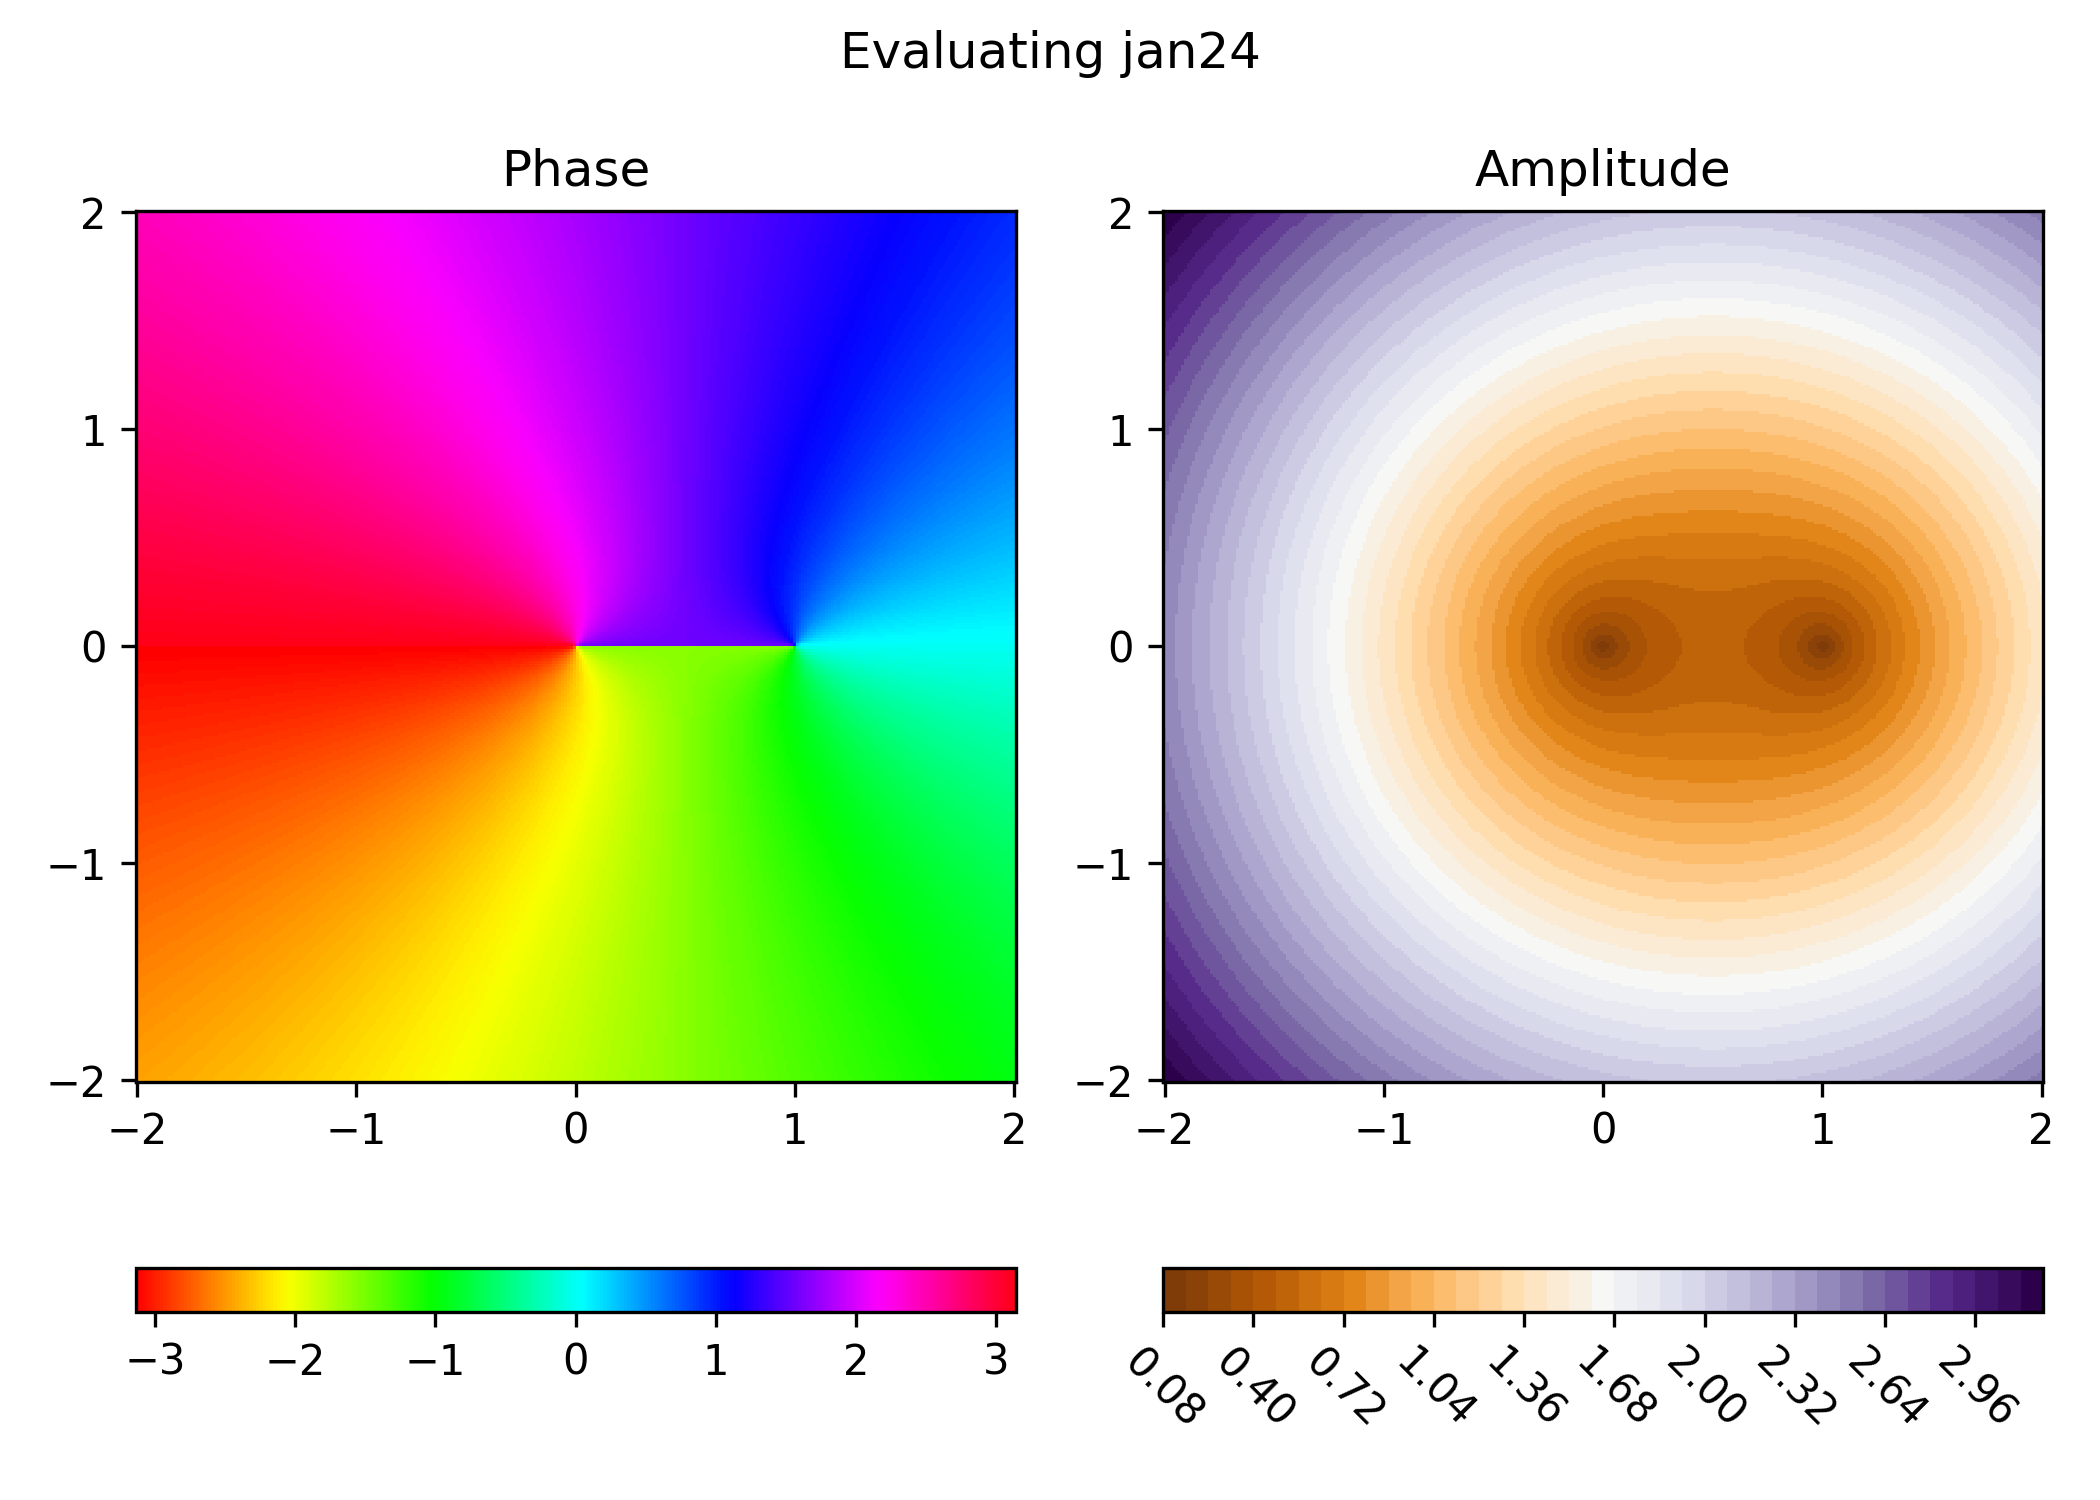
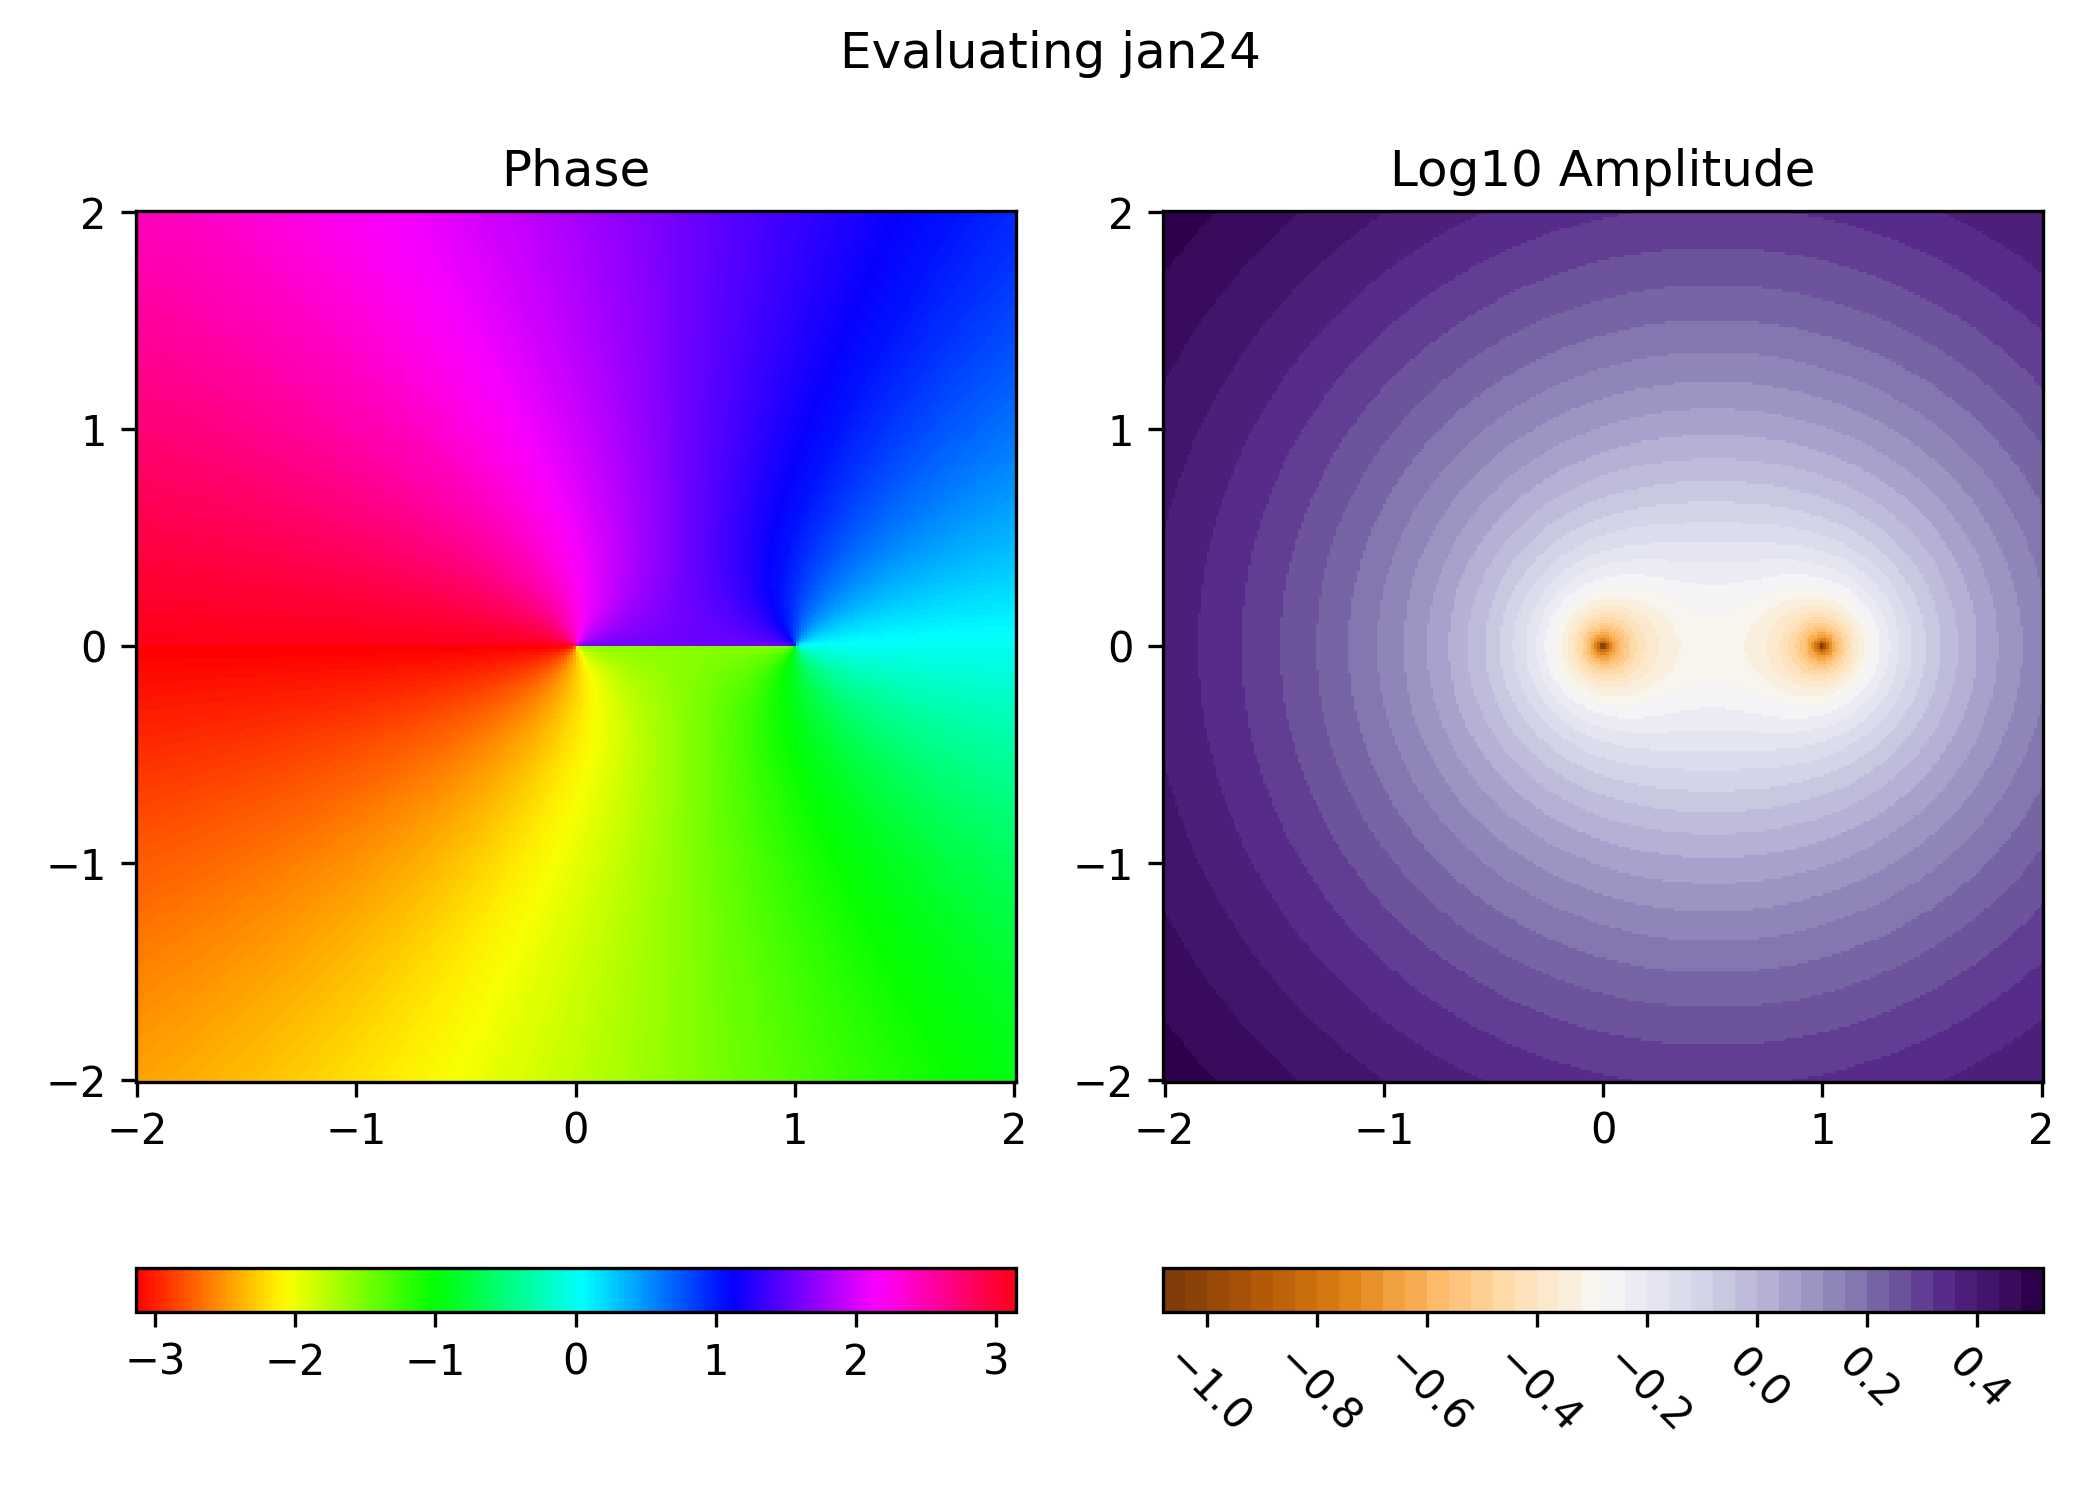
logarithm amplitude colorscale

Changed region(s): [[0.5571, 0.092, 0.9905, 0.736], [0.5262, 0.8893, 0.9595, 0.9507]]

diff --git a/complex.py b/complex.py
@@ -58,8 +58,11 @@ def plot_func(f,z:np.ndarray,name:str):
     # Function Evaluation
     w=func(Z) # Evaluate function
     # Phase and amplitude
-    phase    =np.angle(w)
-    amplitude=np.abs(w)
+    phase =np.angle(w)
+    logamp=np.log10(np.abs(w)) # logarithm of the amplitude
+    cutoff=4 # cutoff amplitude range 10^-4 to 10^4
+    logamp=np.clip(logamp,a_min=-cutoff,a_max=cutoff) 
+
 
     # PLOT
     # ticks, locations and labels
@@ -73,17 +76,17 @@ def plot_func(f,z:np.ndarray,name:str):
     plt.colorbar(orientation='horizontal')
     plt.xticks(xticks)
     plt.yticks(yticks)
-    ### Plotting the amplitude
+    ### Plotting the log amplitude
     # pick a colormap, define level sets and a normalization
     cmap=plt.get_cmap('PuOr')
-    vmin=min(amplitude.flatten())
-    vmax=max(amplitude.flatten())
+    vmin=min(logamp.flatten())
+    vmax=max(logamp.flatten())
     levels=MaxNLocator(nbins=50).tick_values(vmin,vmax)
     norm=BoundaryNorm(levels,ncolors=cmap.N,clip=True)
     # Plot Amplitude
     plt.subplot(1,2,2)
-    plt.pcolormesh(X,Y,amplitude,cmap=cmap,shading="auto",norm=norm)
-    plt.title("Amplitude")
+    plt.pcolormesh(X,Y,logamp,cmap=cmap,shading="auto",norm=norm)
+    plt.title("Log10 Amplitude")
     cbar=plt.colorbar(orientation='horizontal')
     cbar.ax.set_xticklabels(cbar.ax.get_xticklabels(), rotation='-45')
 
